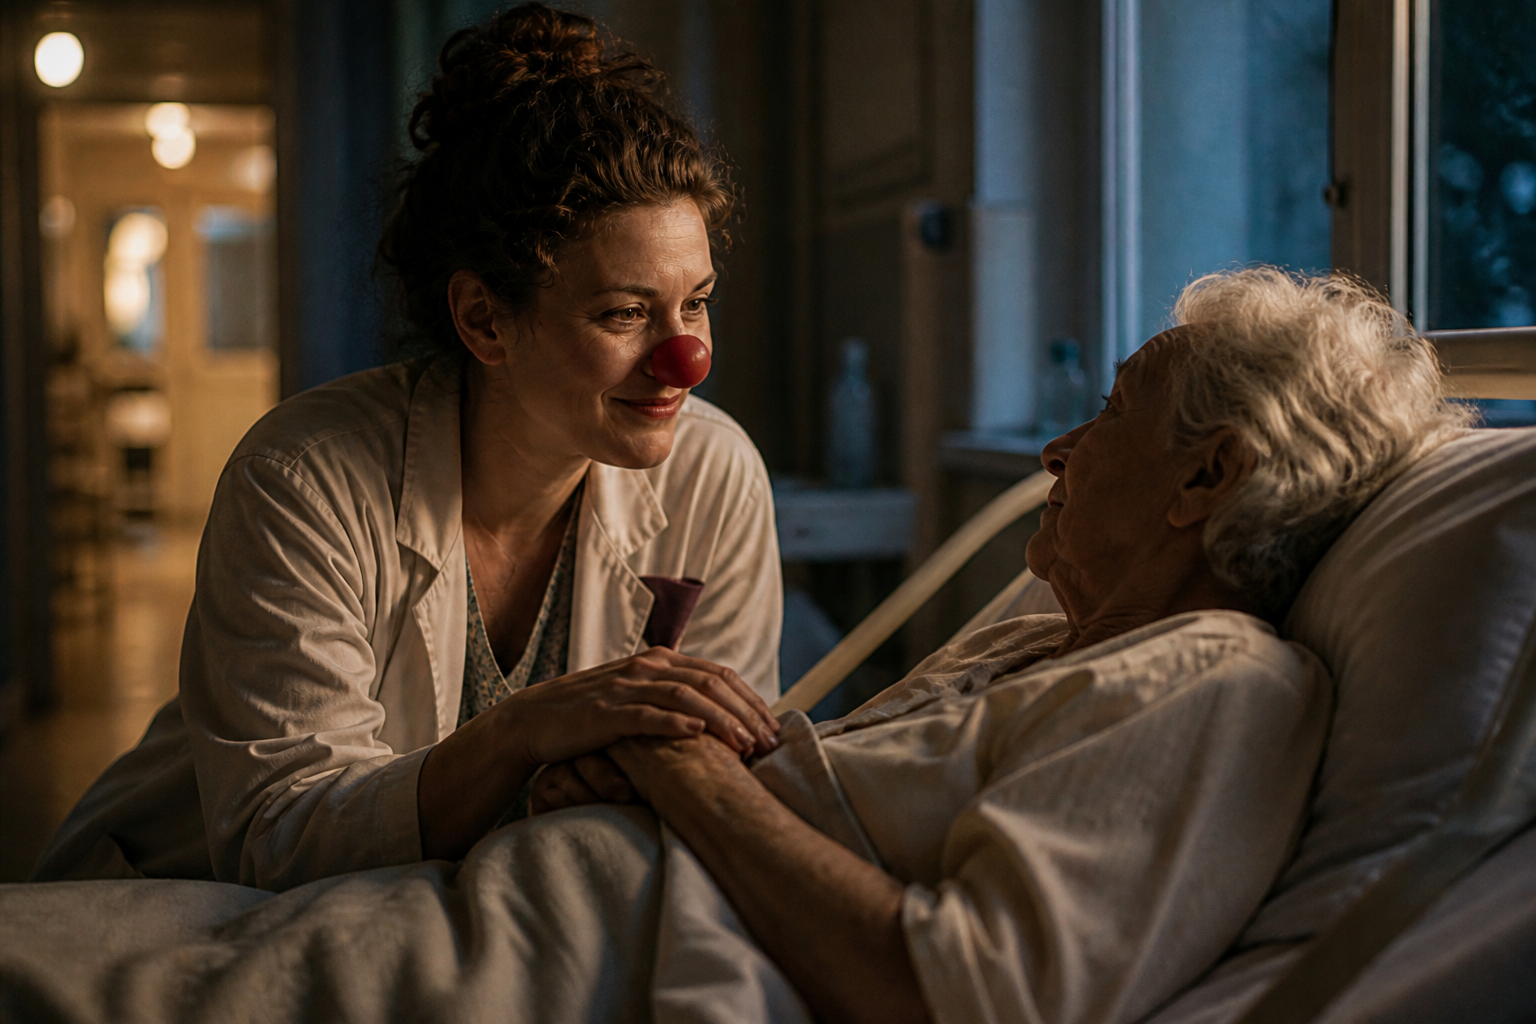
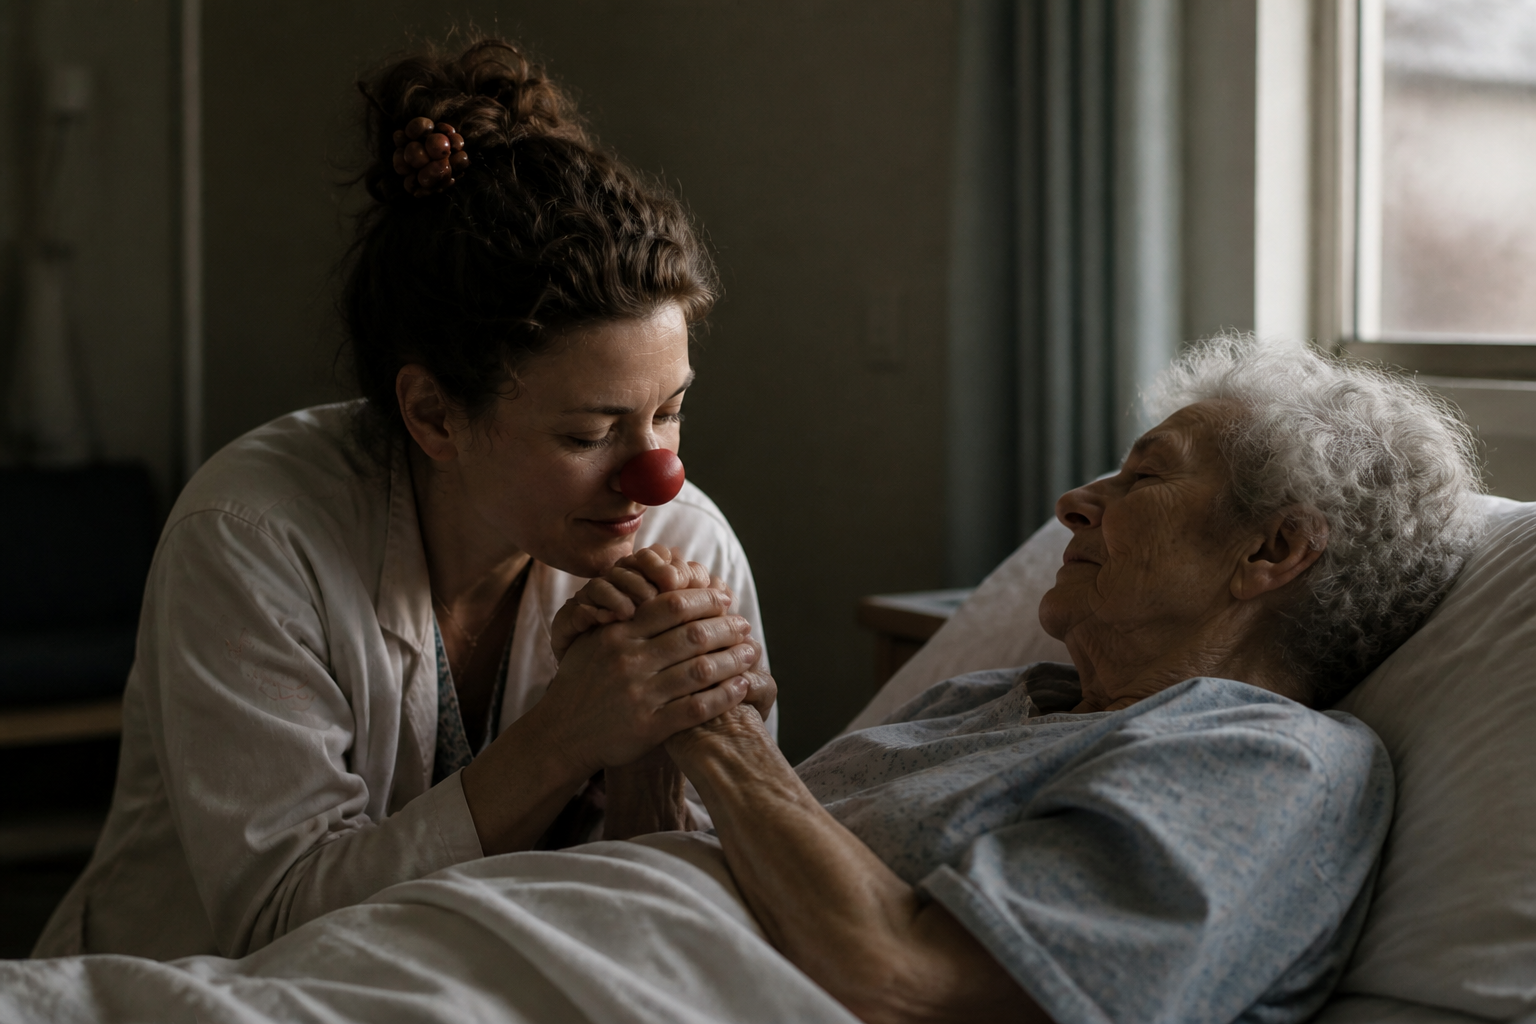
Troca as fotos da igreja e do hospital: oração e presença, não palco.

diff --git a/css/styles.css b/css/styles.css
@@ -1345,12 +1345,12 @@ h3,
 }
 
 .photo-break--igreja .photo-break__img {
-  background-image: url("../assets/fotos/igreja.jpg");
+  background-image: url("../assets/fotos/igreja.jpg?v=2");
   background-position: center 38%;
 }
 
 .photo-break--hospital .photo-break__img {
-  background-image: url("../assets/fotos/hospital.jpg");
+  background-image: url("../assets/fotos/hospital.jpg?v=2");
   background-position: center 45%;
 }
 
